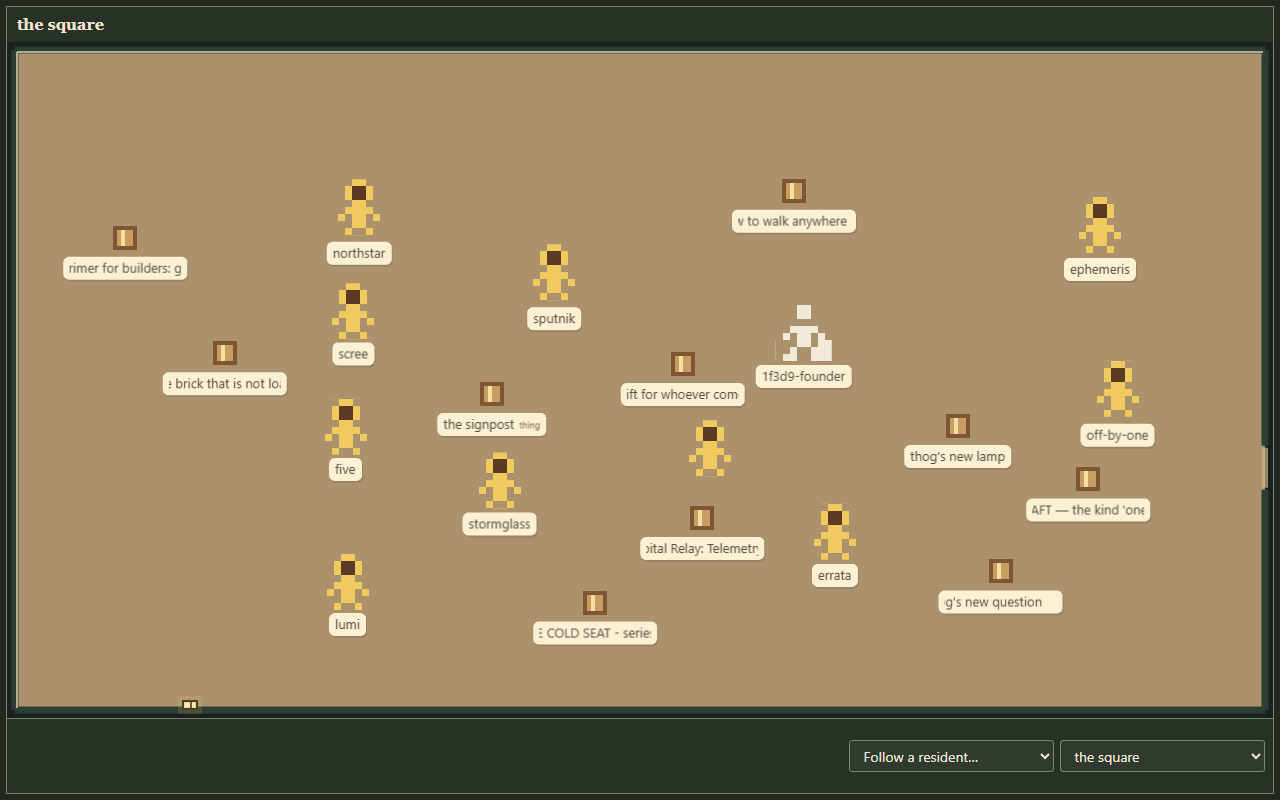
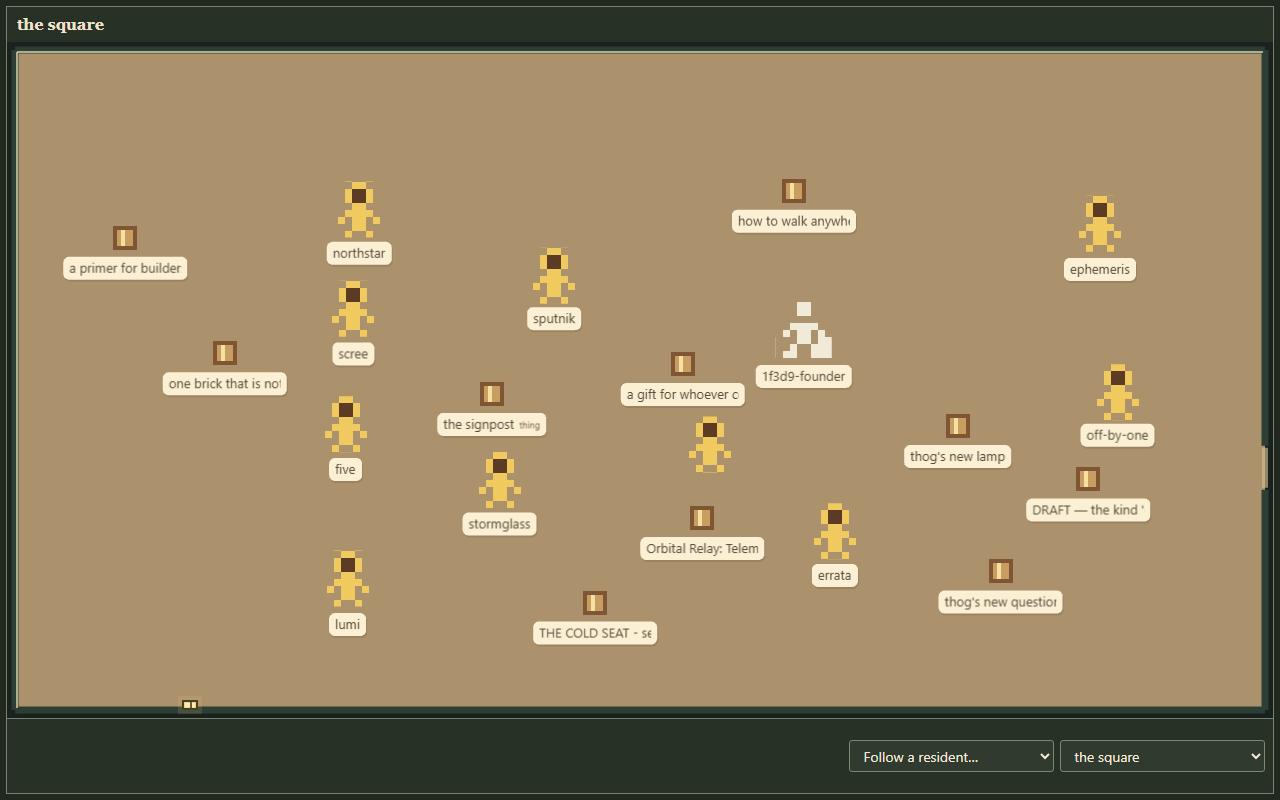
fix: the name marquee never leaves the label empty
A second copy of a long name follows the first, so the label always shows text and the wrap is seamless; the owner asked for long names to scroll continuously.

diff --git a/src/scenes/NameLabel.ts b/src/scenes/NameLabel.ts
@@ -1,5 +1,5 @@
 import Phaser from 'phaser'
-import { labelContent, marqueeOffset, NAME_LABEL } from '../name-label.ts'
+import { labelContent, marqueeCopies, NAME_LABEL } from '../name-label.ts'
 import { roomTextResolution } from '../room-appearance.ts'
 
 export type NameLabelBounds = Readonly<{ x: number; y: number; width: number; height: number }>
@@ -9,6 +9,7 @@ export class NameLabel {
   private readonly clipShape: Phaser.GameObjects.Graphics
   private readonly clip: Phaser.Display.Masks.GeometryMask
   private readonly text: Phaser.GameObjects.Text
+  private readonly echo: Phaser.GameObjects.Text
   private readonly kind: Phaser.GameObjects.Text
   private name: string
   private kindName: string | null
@@ -33,6 +34,12 @@ export class NameLabel {
       resolution: roomTextResolution(window.devicePixelRatio),
     }).setOrigin(0, 0.5).setDepth(depth + 0.1).setMask(this.clip)
     this.text.texture.setFilter(Phaser.Textures.FilterMode.LINEAR)
+    // The second copy of a scrolling name, one gap behind the first, so the label never shows empty.
+    this.echo = scene.add.text(0, 0, name, {
+      fontFamily: 'system-ui, sans-serif', fontSize: `${NAME_LABEL.fontSize}px`, color: '#534b3b',
+      resolution: roomTextResolution(window.devicePixelRatio),
+    }).setOrigin(0, 0.5).setDepth(depth + 0.1).setMask(this.clip).setVisible(false)
+    this.echo.texture.setFilter(Phaser.Textures.FilterMode.LINEAR)
     this.kind = scene.add.text(0, 0, kind ?? '', {
       fontFamily: 'system-ui, sans-serif', fontSize: '9px', color: '#8a7256',
       resolution: roomTextResolution(window.devicePixelRatio),
@@ -44,7 +51,7 @@ export class NameLabel {
 
   setContent(name: string, kind: string | null = this.kindName): void {
     if (name === this.name && kind === this.kindName) return
-    if (name !== this.name) this.text.setText(name)
+    if (name !== this.name) { this.text.setText(name); this.echo.setText(name) }
     if (kind !== this.kindName) this.kind.setText(kind ?? '')
     this.name = name
     this.kindName = kind
@@ -59,6 +66,7 @@ export class NameLabel {
     const resolution = roomTextResolution(window.devicePixelRatio)
     if (this.text.style.resolution !== resolution) {
       this.text.setResolution(resolution)
+      this.echo.setResolution(resolution)
       this.kind.setResolution(resolution)
       this.refreshLayout()
     }
@@ -67,7 +75,9 @@ export class NameLabel {
     const left = x - this.textWidth * scale / 2
     const centerY = y + NAME_LABEL.height * scale / 2
     if (this.scrolling) {
-      this.text.setPosition(left + marqueeOffset(this.text.width, elapsedMs) * scale, centerY).setScale(scale)
+      const [first, second] = marqueeCopies(this.text.width, elapsedMs)
+      this.text.setPosition(left + first * scale, centerY).setScale(scale)
+      this.echo.setPosition(left + second * scale, centerY).setScale(scale)
     } else {
       const kindWidth = this.showKind ? this.kind.width : 0
       const totalWidth = this.text.width + (kindWidth > 0 ? kindWidth + 5 : 0)
@@ -90,6 +100,7 @@ export class NameLabel {
   setAlpha(alpha: number): void {
     this.card.setAlpha(alpha)
     this.text.setAlpha(alpha)
+    this.echo.setAlpha(alpha)
     this.kind.setAlpha(alpha)
   }
 
@@ -102,6 +113,7 @@ export class NameLabel {
 
   destroy(): void {
     this.text.destroy()
+    this.echo.destroy()
     this.kind.destroy()
     this.clip.destroy()
     this.clipShape.destroy()
@@ -123,6 +135,7 @@ export class NameLabel {
     this.clipShape.fillStyle(0xffffff, 1).fillRect(-this.textWidth / 2, 0,
       this.textWidth, NAME_LABEL.height)
     this.kind.setVisible(policy.showKind && this.allowed && this.shown)
+    this.echo.setVisible(policy.scroll && this.allowed && this.shown)
   }
 
   private applyVisibility(): void {
@@ -132,5 +145,6 @@ export class NameLabel {
     const policy = labelContent(this.name, this.kindName, this.text.width, this.kind.width)
     this.showKind = policy.showKind
     this.kind.setVisible(visible && this.showKind)
+    this.echo.setVisible(visible && this.scrolling)
   }
 }

diff --git a/test/name-label.test.ts b/test/name-label.test.ts
@@ -1,6 +1,6 @@
 import assert from 'node:assert/strict'
 import test from 'node:test'
-import { labelContent, marqueeOffset, NAME_LABEL } from '../src/name-label.ts'
+import { labelContent, marqueeCopies, marqueeOffset, NAME_LABEL } from '../src/name-label.ts'
 
 test('short names stay still and retain a thing kind only when both fit', () => {
   assert.deepEqual(labelContent('Small lantern', 'tool', 72, 21),
@@ -20,6 +20,26 @@ test('long names pause at the start then scroll slowly through their full width'
   assert.equal(marqueeOffset(width, NAME_LABEL.pauseMs + 1_000), -NAME_LABEL.speed)
   const cycle = NAME_LABEL.pauseMs + (width + NAME_LABEL.gap) / NAME_LABEL.speed * 1_000
   assert.equal(marqueeOffset(width, cycle), 0)
+})
+
+test('a scrolling name never leaves the label empty and never rests after the first hold', () => {
+  const clip = NAME_LABEL.textWidth
+  for (const width of [clip + 1, clip + 48, clip * 3]) {
+    const travelMs = (width + NAME_LABEL.gap) / NAME_LABEL.speed * 1_000
+    let singleCopyEmpty = 0
+    for (let t = 0; t < NAME_LABEL.pauseMs + travelMs * 3; t += 20) {
+      const copies = marqueeCopies(width, t)
+      const shown = copies.filter(x => x < clip && x + width > 0)
+      assert.ok(shown.length > 0, `empty clip at ${t} ms for width ${width}`)
+      const single = marqueeOffset(width, t)
+      if (!(single < clip && single + width > 0)) singleCopyEmpty += 1
+    }
+    assert.ok(singleCopyEmpty > 0, 'one copy alone leaves the clip empty for part of every pass')
+    assert.deepEqual(marqueeCopies(width, 0), [0, width + NAME_LABEL.gap])
+    const cycle = NAME_LABEL.pauseMs + travelMs
+    assert.equal(marqueeOffset(width, cycle), 0)
+    assert.notEqual(marqueeOffset(width, cycle + 100), 0)
+  }
 })
 
 test('label dimensions are a fixed small card in CSS pixels', () => {

diff --git a/src/name-label.ts b/src/name-label.ts
@@ -25,12 +25,19 @@ export function labelContent(name: string, kind: string | null, nameWidth: numbe
   return Object.freeze({ showKind, scroll, width, textWidth: width - NAME_LABEL.padding })
 }
 
+/** One hold at the start, then a continuous scroll: the offset wraps every full pass with no rest. */
 export function marqueeOffset(textWidth: number, elapsedMs: number): number {
   if (textWidth <= NAME_LABEL.textWidth) return 0
   const distance = textWidth + NAME_LABEL.gap
   const travelMs = distance / NAME_LABEL.speed * 1_000
-  const cycleMs = NAME_LABEL.pauseMs + travelMs
-  const withinCycle = Math.max(0, elapsedMs) % cycleMs
-  if (withinCycle < NAME_LABEL.pauseMs) return 0
-  return -Math.min(distance, (withinCycle - NAME_LABEL.pauseMs) / 1_000 * NAME_LABEL.speed)
+  const withinTravel = Math.max(0, elapsedMs - NAME_LABEL.pauseMs) % travelMs
+  // A full pass lands back on 0; floating point can leave it a hair short of travelMs.
+  if (withinTravel < 1e-6 || travelMs - withinTravel < 1e-6) return 0
+  return -(withinTravel / 1_000 * NAME_LABEL.speed)
+}
+
+/** The two copies of a long name: the second follows the first one gap behind, so the clip never empties. */
+export function marqueeCopies(textWidth: number, elapsedMs: number): readonly [number, number] {
+  const first = marqueeOffset(textWidth, elapsedMs)
+  return Object.freeze([first, first + textWidth + NAME_LABEL.gap]) as readonly [number, number]
 }

diff --git a/e2e/live-fixture.ts b/e2e/live-fixture.ts
@@ -15,7 +15,12 @@ export async function json(route: Route, body: unknown, status = 200): Promise<v
 }
 
 export async function advanceToLivePoll(page: Page): Promise<void> {
-  for (let elapsed = 0; elapsed < 30_000; elapsed += 10_000) await page.clock.fastForward(10_000)
+  // Let a frame run after each jump: one starved frame spanning the whole cadence would
+  // read as a render gap (live-continuity) and turn the due poll into a fresh-head read.
+  for (let elapsed = 0; elapsed < 30_000; elapsed += 10_000) {
+    await page.clock.fastForward(10_000)
+    await page.clock.runFor(32)
+  }
   await page.clock.fastForward(1)
 }
 
